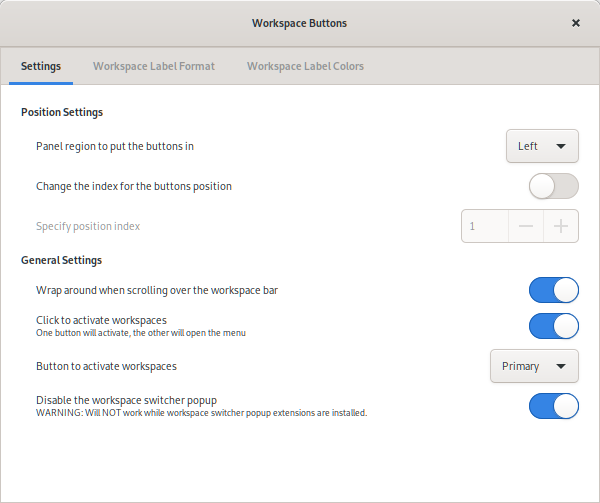
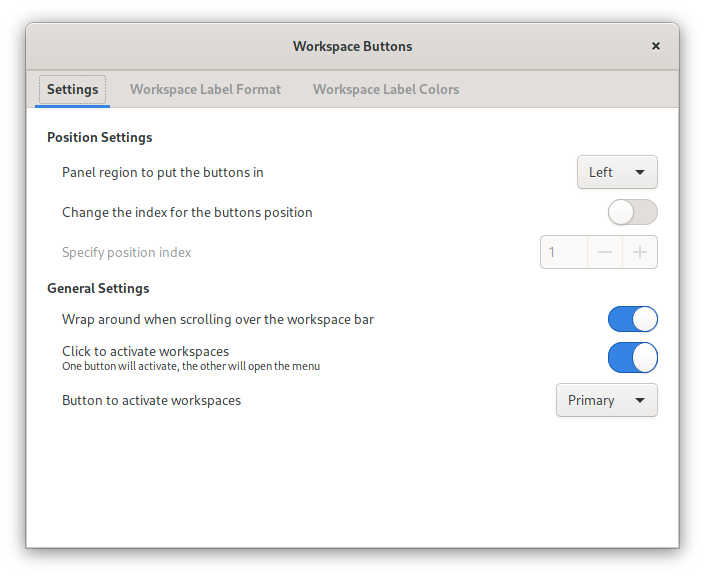
Update README and screenshots
Update the README and screenshots as the previous screenshots were
using BGR subpixel ordering and look out of place on a non-BGR
display and some preferences changed.

Changed region(s): [[0.0, 0.0, 1.0, 1.0]]

diff --git a/README.md b/README.md
@@ -15,7 +15,7 @@ This is how the Workspace Buttons look like in action with the current choice of
 - The empty workspaces with no window/application in them default to a dark grey text
 - Hovering over a workspace defaults to bright white text
 
-This is how the Workspace Buttons look using the Activity Indicator option and with some indicators in use. The indicators are  (U+F10C),  (U+F192),  (U+F111) for those interested. If you can't see the characters, you'll likely need [Font Awesome](http://fontawesome.io/icons/) (version 4, not 5) for them to be visible (check your distribution repositories).
+This is how the Workspace Buttons look using the Activity Indicator option and with some indicators in use. The indicators (using [Font Awesome](http://fontawesome.io/icons/) version 4, not 5) for active, inactive and empty workspaces are U+F10C, U+F192, U+F111 respectively, for those interested.
 
 ![Workspace Buttons in action with activity indicators](./screenshots/workspace-buttons-indicators.png?raw=true)
 
@@ -26,8 +26,6 @@ This is how the menu looks when opened.
 These are the General Settings on the Settings page.
 
 ![Workspace Buttons - General Settings](./screenshots/settings-general.png?raw=true)
-
-**Note:** For the "Disable the workspace switcher popup" setting, as noted, the disabling of the workspace switcher popup will not work if another workspace switcher popup extension is installed, regardless of whether it's enabled or not (avoid installing another extension that does workspace switcher stuff with this setting enabled). This includes things that modify the workspace switcher or override it in some way.
 
 This is the Workspace Label Format settings page which is used to change the settings for how the workspace labels appear. The format settings are somewhat more extensive and allow a greater degree of customization.
 
